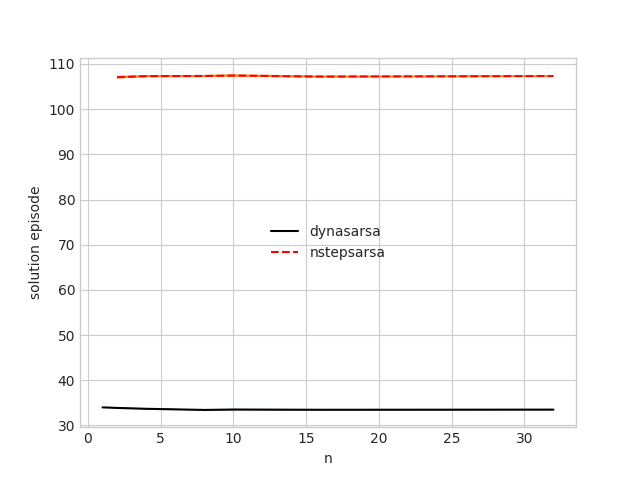
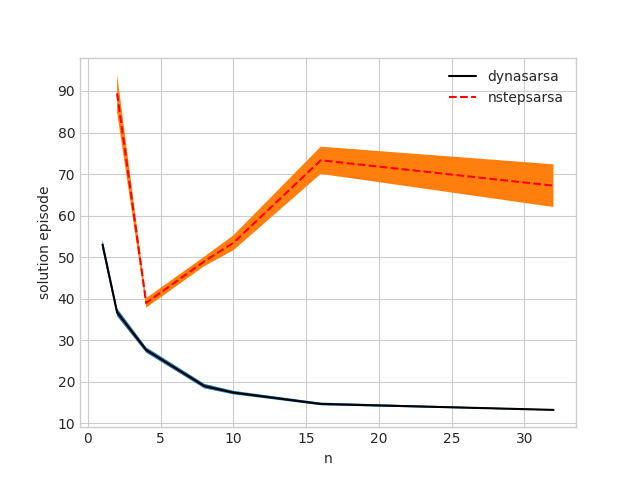
recreated plots for n experiment

diff --git a/experiments/dynasarsa_vs_nstepsarsa/n/plot.py b/experiments/dynasarsa_vs_nstepsarsa/n/plot.py
@@ -90,8 +90,8 @@ def plot_stderror_runsolved_vs_n(df):
     return None
 
 
-metric= 'nrun_solved'
-legend_loc= 'center right' 
+metric= 'solution_episode'
+legend_loc= 'upper right' 
 #best        upper right        upper left        lower left        lower right        right
 #center left        center right        lower center        upper center        center
 figurefile_header= "plots/ncompare_" 
@@ -99,7 +99,7 @@ figure_file= figurefile_header + metric + ".png"
 col_names = ['method', 'run', 'episode', 'n', 'terminal_timestep', 'G_direct_mean', 'G_direct_std', 'G_direct_n',\
             'G_indirect_mean', 'G_indirect_std', 'G_indirect_n', 'dQ_direct_mean', 'dQ_direct_std', \
             'dQ_indirect_mean', 'dQ_indirect_std', 'alpha', 'epsilon', 'solution_episode', 'decay_multiplier']
-data_file="data/test.csv"
+data_file="data/Xi_e32_a4.csv"
 method1='dynasarsa'
 method2='nstepsarsa'
 
@@ -107,6 +107,6 @@ df = pd.read_csv(data_file)
 df.columns = col_names
 
 #choose appropriate function, comment out others
-plot_nrunsolved_vs_n(df)
-#plot_solutionepisode_vs_n(df)
+#plot_nrunsolved_vs_n(df)
+plot_solutionepisode_vs_n(df)
 #plot_stderror_runsolved_vs_n(df)

diff --git a/experiments/dynasarsa_vs_nstepsarsa/n/simulate_rework.py b/experiments/dynasarsa_vs_nstepsarsa/n/simulate_rework.py
@@ -320,13 +320,13 @@ if __name__ == "__main__":
     env_model = []
 
     #defining experiment values
-    decay_multiplier_dynasarsa = 4
-    decay_multiplier_nstepsarsa = 1
+    decay_multiplier_dynasarsa = 32
+    decay_multiplier_nstepsarsa = 4
     dynasarsa_planningsteps = [1,2,4,8,10,16,32]
     nstepsarsa_n = [2,4,8,10,16,32]
     
     #defining outputfile
-    outfile = '../experiments/dynasarsa_vs_nstepsarsa/n/data/test.csv'
+    outfile = '../experiments/dynasarsa_vs_nstepsarsa/n/data/Xi_e32_a4.csv'
     
     run=1
     decay_multiplier =  decay_multiplier_dynasarsa 
